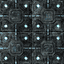
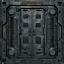
updated-look

diff --git a/scripts/main.js b/scripts/main.js
@@ -14,6 +14,7 @@ import { SpriteRenderer } from "./spriteRenderer.js";
 let inputEvents = {"mouseDeltaX": 0, "KeyW": false, "KeyS": false, "KeyA": false, "KeyD": false};
 const mouseSensitivity = 0.2;
 const turnSpeed = 4;
+const skyCol = {r: 20, g: 20, b: 25};
 
 // Multiplayer variables
 let multiplayerManager = null;
@@ -79,11 +80,12 @@ function renderWalls() {
 
         const sx = Math.min(Math.max(textureCoord * myAssets.wallPanel.width, 0), 63);
 
-        const color = rayCastResult.side == 0 ? 0 : 0.5;
+        let color = rayCastResult.side == 0 ? 0 : 0.25;
+        color = color + (1 - Math.max(5 / distance, 0.001));
+        color = Math.min(color, 1);
         if (distance < 48) {
-            // ctx.filter = `brightness(${color}%)`;
             ctx.drawImage(myAssets.wallPanel, sx, 0, 1, 64, xLoc, lineBottom - lineHeight, 1, lineHeight);
-            Renderer.drawLine(xLoc, lineBottom, xLoc, lineBottom - lineHeight, `rgba(0, 0, 0, ${color})`, (1/raysToCast * (gameScreen.width))+0.1);
+            Renderer.drawLine(xLoc, lineBottom, xLoc, lineBottom - lineHeight, `rgba(20, 20, 25, ${color})`, (1/raysToCast * (gameScreen.width))+0.1);
         }
     }
 }
@@ -171,7 +173,7 @@ async function loadAssets() {
     ] = await Promise.all([
         loadImage('./assets/backgroundPlaceFiller.png'), 
         loadImage('./assets/woodWall.png'),
-        loadImage('./assets/floor_panel.png'),
+        loadImage('./assets/floorTile.png'),
         loadImage('./assets/wallPanel.png'),
     ]);
 
@@ -337,7 +339,7 @@ async function init() {
 
 function draw() {
     Renderer.clearScreen();
-    Renderer.renderFloor( Player, {r: 40, g: 40, b: 50}, World, myAssets.floorPanelTexture);
+    Renderer.renderFloor( Player, skyCol, World, myAssets.floorPanelTexture);
     // Renderer.drawBackground(Player.angle, myAssets.backgroundFiller);
     renderWalls();
     

diff --git a/scripts/renderer.js b/scripts/renderer.js
@@ -78,7 +78,7 @@ const Renderer = {
                 // 2. Determine color based on even/odd sum (checkerboard)
                 // const randomNum = Math.floor(SimpleRandom.next(Number(`${cellX}${cellY}`))*100);
                 // // console.log(randomNum);
-                const distFade = (Math.min(Math.max((correctedDistance / 50), 0.001), 1));
+                const distFade = (Math.min(Math.max((correctedDistance / 10), 0.001), 1));
 
                 const texIndex = (internalY * 64 + internalX ) * 4;
                 const redCol = floorAssetTexture[texIndex];
@@ -86,9 +86,9 @@ const Renderer = {
                 const blueCol = floorAssetTexture[texIndex+2];
 
                 const pixelIndex = (y * screenWidth + x) * 4;
-                data[pixelIndex]     = ((1 - distFade) * redCol) + (distFade * skyColor.r); // R
-                data[pixelIndex + 1] = ((1 - distFade) * greenCol) + (distFade * skyColor.g); // G
-                data[pixelIndex + 2] = ((1 - distFade) * blueCol) + (distFade * skyColor.b); // B
+                data[pixelIndex]     = (((1 - distFade) * redCol) + (distFade * skyColor.r)); // R
+                data[pixelIndex + 1] = (((1 - distFade) * greenCol) + (distFade * skyColor.g)); // G
+                data[pixelIndex + 2] = (((1 - distFade) * blueCol) + (distFade * skyColor.b)); // B
                 data[pixelIndex + 3] = 255;   // A (Opaque)
             }
         }
